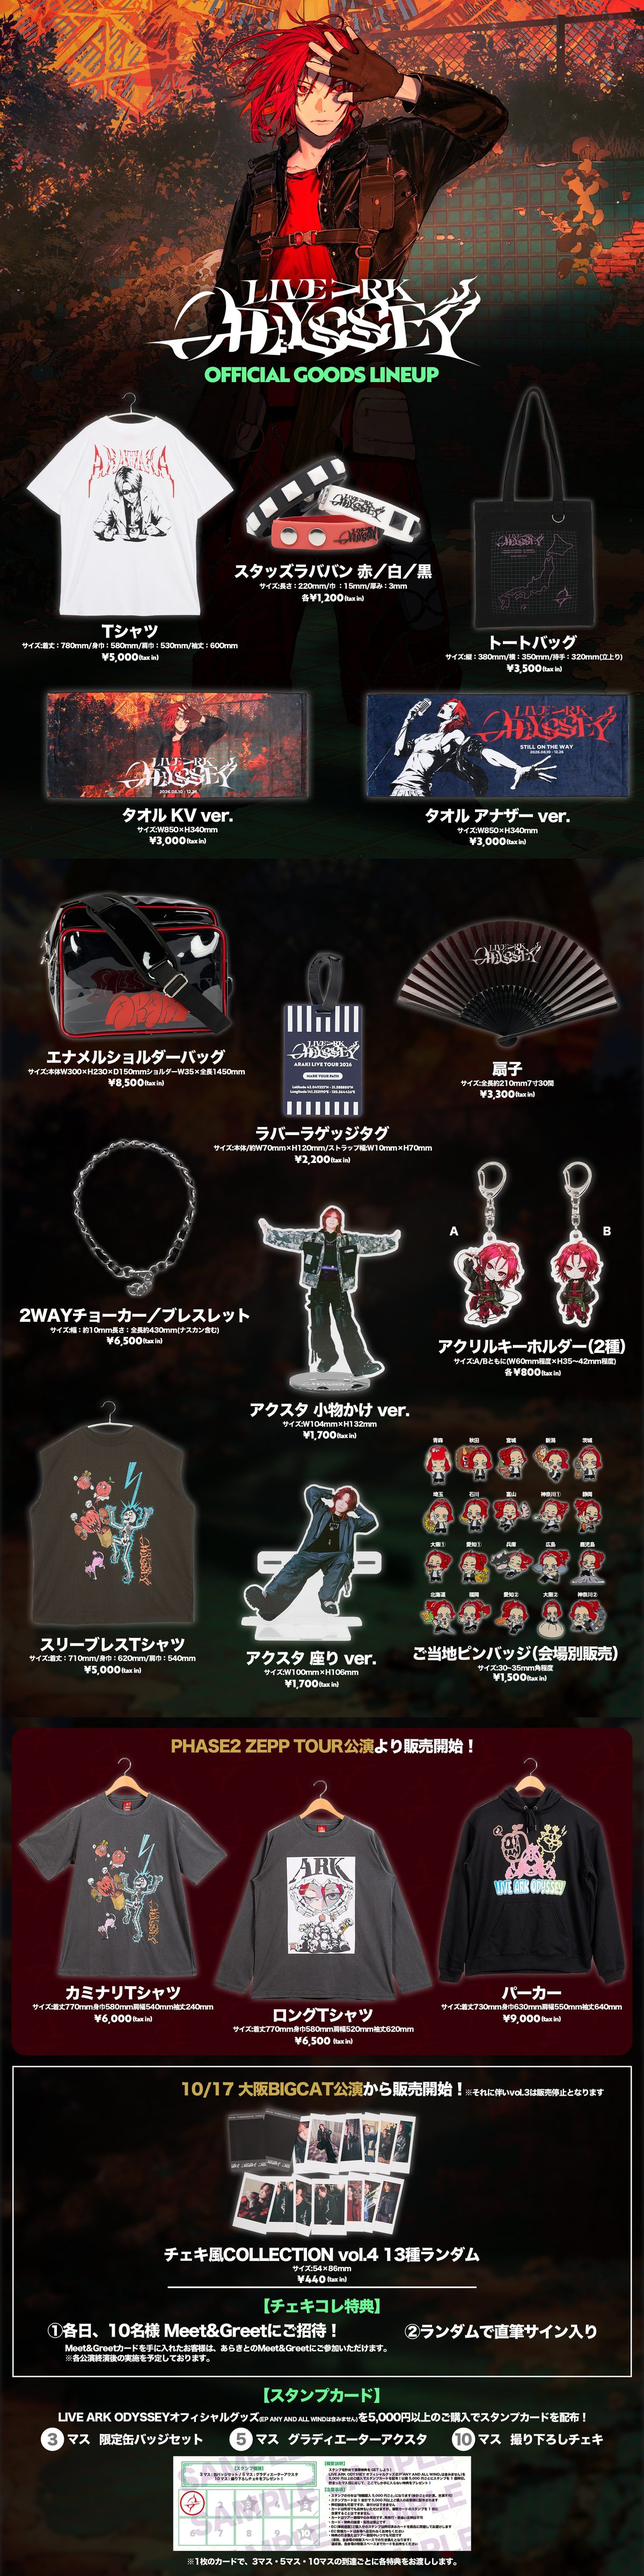
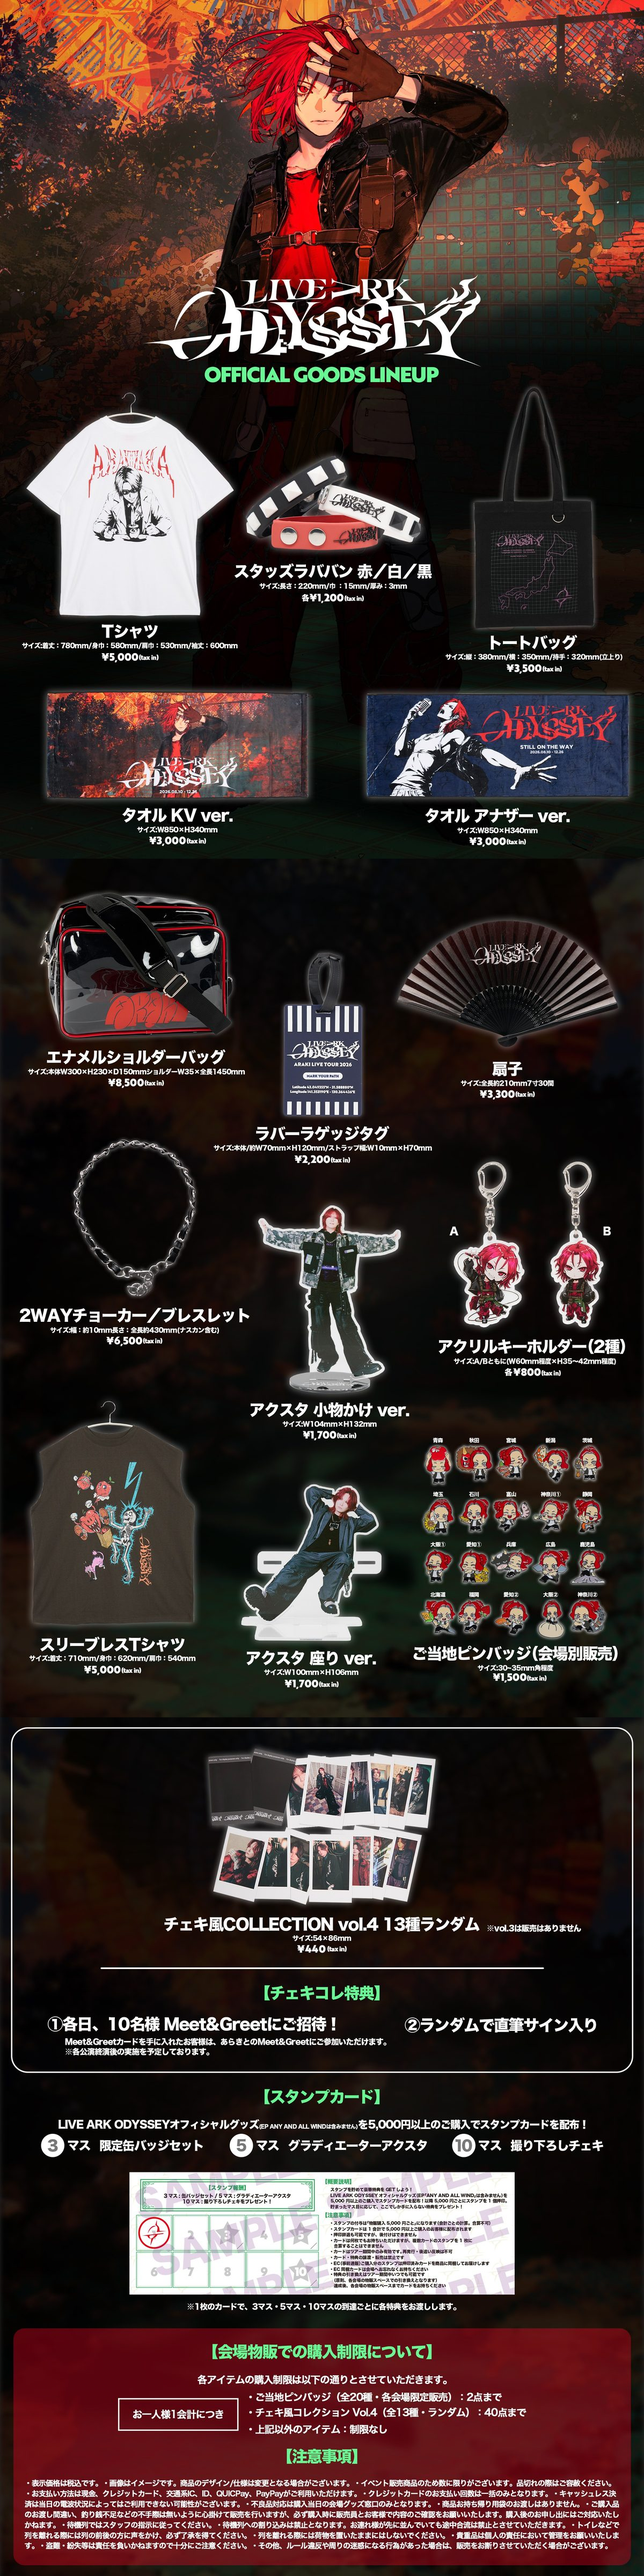
fix: 追加グッズ解禁を10/14 23:00に変更、ラインナップ画像をFIX版に差し替え

Changed region(s): [[0.0, 0.6562, 0.9867, 1.0]]

diff --git a/index.html b/index.html
@@ -563,7 +563,7 @@
       </div>
 
       <!-- ② グッズ画像（10/14 12:00 に追加グッズ入りへ自動差し替え） -->
-      <div data-hide-at="2026-10-14T12:00:00+09:00">
+      <div data-hide-at="2026-10-14T23:00:00+09:00">
         <figure class="goods-lineup fade-item">
           <img src="img/goods-lineup.jpg" alt="LIVE ARK ODYSSEY 2026 オフィシャルグッズラインナップ" loading="lazy">
         </figure>
@@ -577,7 +577,7 @@
         </div>
       </div>
 
-      <div data-reveal="2026-10-14T12:00:00+09:00" hidden>
+      <div data-reveal="2026-10-14T23:00:00+09:00" hidden>
         <figure class="goods-lineup fade-item">
           <img src="img/goods-lineup2.jpg" alt="LIVE ARK ODYSSEY 2026 オフィシャルグッズラインナップ（追加グッズ入り）" loading="lazy">
         </figure>
